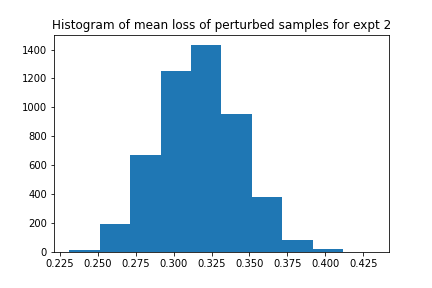
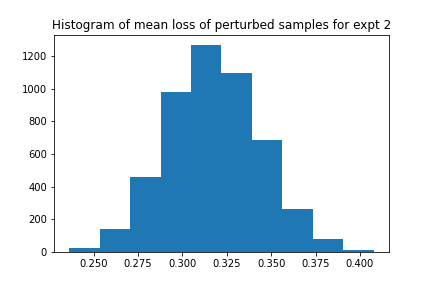
modified:   adversarial-points/perturbed-mean-entropy-hist2.png modified:   adversarial-points/perturbed-mean-entropy-qqplot2.png modified:   adversarial_sample.py

diff --git a/adversarial_sample.py b/adversarial_sample.py
@@ -58,7 +58,7 @@ graph = cl.Classifier(init_graph, tf.matmul(x_unprotected_train, unprotected_dir
 
 
 
-def sample_perturbation(data_point, regularizer = 1e-2, learning_rate = 1e-4, num_steps = 20):
+def sample_perturbation(data_point, regularizer = 1e1, learning_rate = 1e-4, num_steps = 20):
     x, y = data_point
     x = tf.reshape(x, (1, -1))
     #x = tf.matmul(x, unprotected_directions) # Remove if not trying to make algo fair
@@ -75,7 +75,7 @@ def sample_perturbation(data_point, regularizer = 1e-2, learning_rate = 1e-4, nu
         x = x + learning_rate * gradient / tf.linalg.norm(gradient, ord = 2)
     return x.numpy()
 
-def perturbed_loss(x, y, regularizer = 1e0, learning_rate = 1e-4, num_steps = 20):
+def perturbed_loss(x, y, regularizer = 1e2, learning_rate = 1e-4, num_steps = 20):
     x_perturbed = sample_perturbation((x, y), regularizer, learning_rate, num_steps)
     return utils.EntropyLoss(y, graph(x_perturbed))
 
